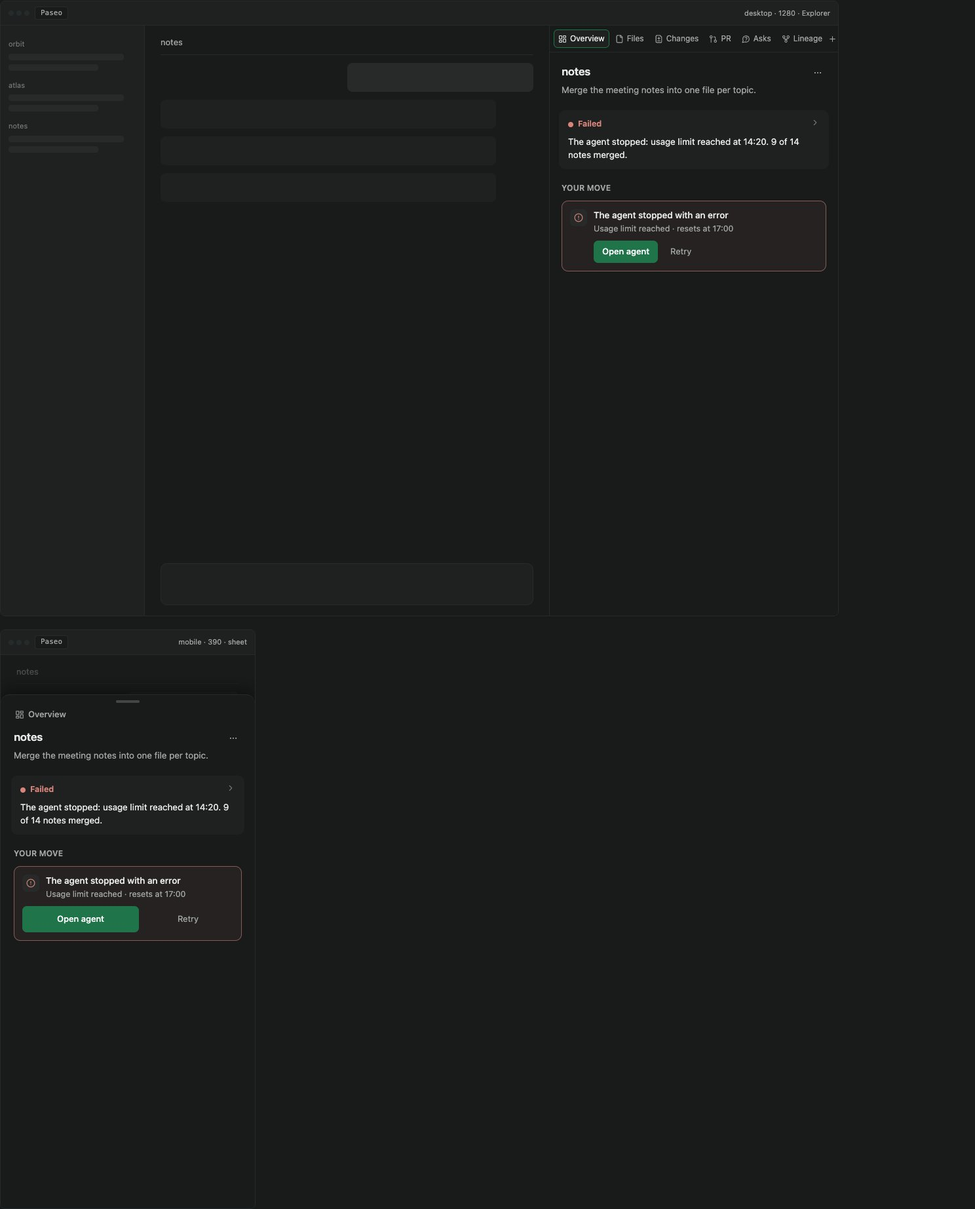
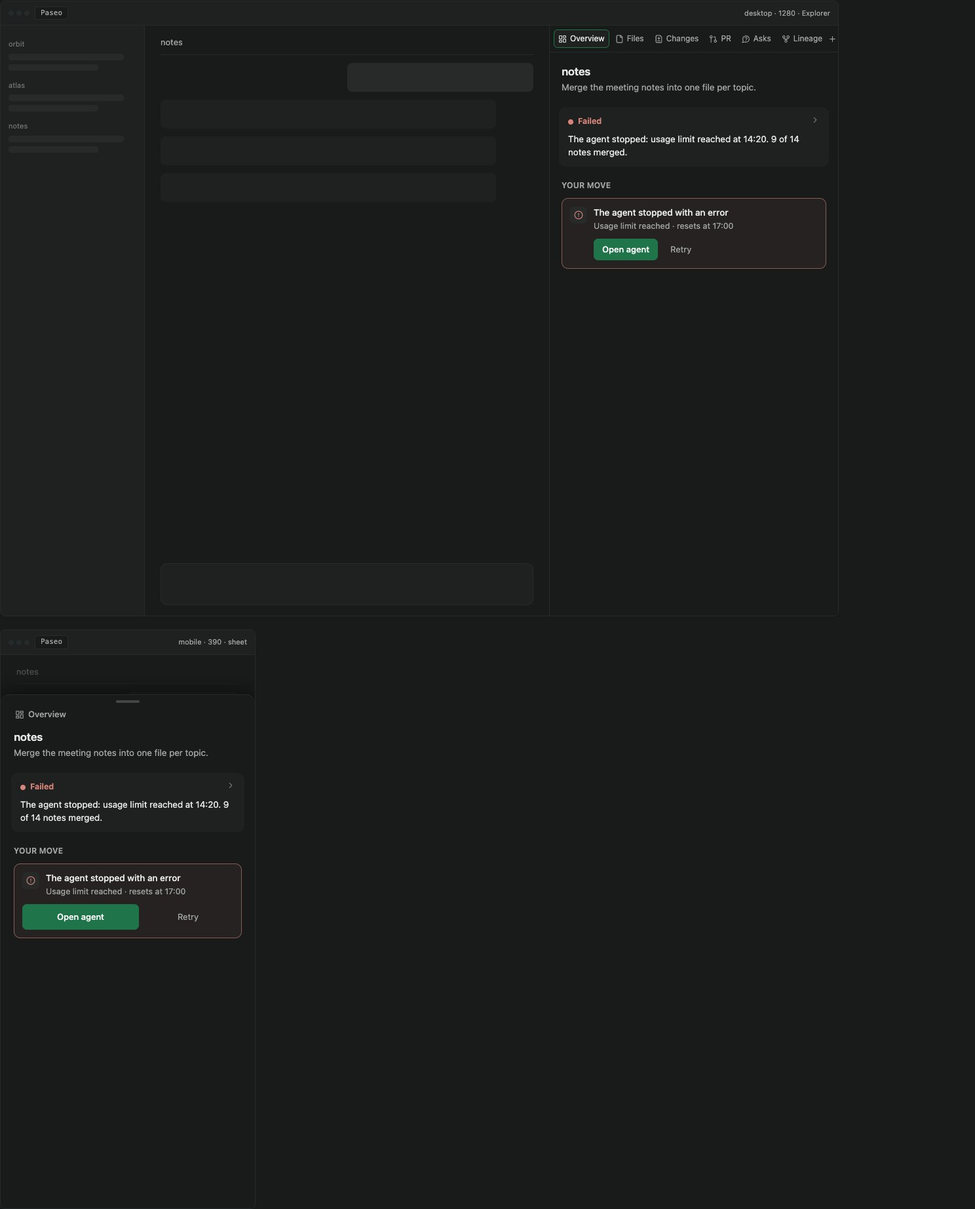
docs(spec): Overview v3 — drop the ⋯ menu, design approved

Changed region(s): [[0.5874, 0.0618, 0.8038, 0.2164], [0.0309, 0.6182, 0.2164, 0.7728]]

diff --git a/.ai/prototypes/overview-v3/index.html b/.ai/prototypes/overview-v3/index.html
@@ -13,7 +13,7 @@
 <svg width="0" height="0" style="position:absolute" aria-hidden="true"><defs><symbol id="ic-chevron-right" viewBox="0 0 24 24" fill="none" stroke="currentColor" stroke-width="2" stroke-linecap="round" stroke-linejoin="round"><path d="m9 18 6-6-6-6"/></symbol><symbol id="ic-more" viewBox="0 0 24 24" fill="currentColor" stroke="none"><circle cx="5" cy="12" r="1.75"/><circle cx="12" cy="12" r="1.75"/><circle cx="19" cy="12" r="1.75"/></symbol><symbol id="ic-sun" viewBox="0 0 24 24" fill="none" stroke="currentColor" stroke-width="2" stroke-linecap="round" stroke-linejoin="round"><circle cx="12" cy="12" r="4"/><path d="M12 2v2"/><path d="M12 20v2"/><path d="m4.93 4.93 1.41 1.41"/><path d="m17.66 17.66 1.41 1.41"/><path d="M2 12h2"/><path d="M20 12h2"/><path d="m6.34 17.66-1.41 1.41"/><path d="m19.07 4.93-1.41 1.41"/></symbol><symbol id="ic-dash" viewBox="0 0 24 24" fill="none" stroke="currentColor" stroke-width="2" stroke-linecap="round" stroke-linejoin="round"><rect width="7" height="9" x="3" y="3" rx="1"/><rect width="7" height="5" x="14" y="3" rx="1"/><rect width="7" height="9" x="14" y="12" rx="1"/><rect width="7" height="5" x="3" y="16" rx="1"/></symbol><symbol id="ic-files" viewBox="0 0 24 24" fill="none" stroke="currentColor" stroke-width="2" stroke-linecap="round" stroke-linejoin="round"><path d="M15 2H6a2 2 0 0 0-2 2v16a2 2 0 0 0 2 2h12a2 2 0 0 0 2-2V7Z"/><path d="M14 2v4a2 2 0 0 0 2 2h4"/></symbol><symbol id="ic-diff" viewBox="0 0 24 24" fill="none" stroke="currentColor" stroke-width="2" stroke-linecap="round" stroke-linejoin="round"><path d="M15 2H6a2 2 0 0 0-2 2v16a2 2 0 0 0 2 2h12a2 2 0 0 0 2-2V7Z"/><path d="M9 10h6"/><path d="M12 13V7"/><path d="M9 17h6"/></symbol><symbol id="ic-branch" viewBox="0 0 24 24" fill="none" stroke="currentColor" stroke-width="2" stroke-linecap="round" stroke-linejoin="round"><line x1="6" x2="6" y1="3" y2="15"/><circle cx="18" cy="6" r="3"/><circle cx="6" cy="18" r="3"/><path d="M18 9a9 9 0 0 1-9 9"/></symbol><symbol id="ic-pr" viewBox="0 0 24 24" fill="none" stroke="currentColor" stroke-width="2" stroke-linecap="round" stroke-linejoin="round"><circle cx="18" cy="18" r="3"/><circle cx="6" cy="6" r="3"/><path d="M13 6h3a2 2 0 0 1 2 2v7"/><line x1="6" x2="6" y1="9" y2="21"/></symbol><symbol id="ic-merge" viewBox="0 0 24 24" fill="none" stroke="currentColor" stroke-width="2" stroke-linecap="round" stroke-linejoin="round"><circle cx="18" cy="18" r="3"/><circle cx="6" cy="6" r="3"/><path d="M6 21V9a9 9 0 0 0 9 9"/></symbol><symbol id="ic-ask" viewBox="0 0 24 24" fill="none" stroke="currentColor" stroke-width="2" stroke-linecap="round" stroke-linejoin="round"><path d="M7.9 20A9 9 0 1 0 4 16.1L2 22Z"/><path d="M9.09 9a3 3 0 0 1 5.83 1c0 2-3 3-3 3"/><path d="M12 17h.01"/></symbol><symbol id="ic-fork" viewBox="0 0 24 24" fill="none" stroke="currentColor" stroke-width="2" stroke-linecap="round" stroke-linejoin="round"><circle cx="12" cy="18" r="3"/><circle cx="6" cy="6" r="3"/><circle cx="18" cy="6" r="3"/><path d="M18 9v2c0 .6-.4 1-1 1H7c-.6 0-1-.4-1-1V9"/><path d="M12 12v3"/></symbol><symbol id="ic-up" viewBox="0 0 24 24" fill="none" stroke="currentColor" stroke-width="2" stroke-linecap="round" stroke-linejoin="round"><path d="M14 9 9 4 4 9"/><path d="M20 20h-7a4 4 0 0 1-4-4V4"/></symbol><symbol id="ic-down" viewBox="0 0 24 24" fill="none" stroke="currentColor" stroke-width="2" stroke-linecap="round" stroke-linejoin="round"><path d="m15 10 5 5-5 5"/><path d="M4 4v7a4 4 0 0 0 4 4h12"/></symbol><symbol id="ic-shield" viewBox="0 0 24 24" fill="none" stroke="currentColor" stroke-width="2" stroke-linecap="round" stroke-linejoin="round"><path d="M20 13c0 5-3.5 7.5-7.66 8.95a1 1 0 0 1-.67-.01C7.5 20.5 4 18 4 13V6a1 1 0 0 1 1-1c2 0 4.5-1.2 6.24-2.72a1.17 1.17 0 0 1 1.52 0C14.51 3.81 17 5 19 5a1 1 0 0 1 1 1z"/></symbol><symbol id="ic-alert" viewBox="0 0 24 24" fill="none" stroke="currentColor" stroke-width="2" stroke-linecap="round" stroke-linejoin="round"><circle cx="12" cy="12" r="10"/><line x1="12" x2="12" y1="8" y2="12"/><line x1="12" x2="12.01" y1="16" y2="16"/></symbol><symbol id="ic-archive" viewBox="0 0 24 24" fill="none" stroke="currentColor" stroke-width="2" stroke-linecap="round" stroke-linejoin="round"><rect width="20" height="5" x="2" y="3" rx="1"/><path d="M4 8v11a2 2 0 0 0 2 2h12a2 2 0 0 0 2-2V8"/><path d="M10 12h4"/></symbol><symbol id="ic-agent" viewBox="0 0 24 24" fill="none" stroke="currentColor" stroke-width="2" stroke-linecap="round" stroke-linejoin="round"><path d="M12 4v16"/><path d="M18.9 8 5.1 16"/><path d="m5.1 8 13.8 8"/></symbol><symbol id="ic-code" viewBox="0 0 24 24" fill="none" stroke="currentColor" stroke-width="2" stroke-linecap="round" stroke-linejoin="round"><polyline points="16 18 22 12 16 6"/><polyline points="8 6 2 12 8 18"/></symbol><symbol id="ic-copy" viewBox="0 0 24 24" fill="none" stroke="currentColor" stroke-width="2" stroke-linecap="round" stroke-linejoin="round"><rect width="14" height="14" x="8" y="8" rx="2"/><path d="M4 16c-1.1 0-2-.9-2-2V4c0-1.1.9-2 2-2h10c1.1 0 2 .9 2 2"/></symbol><symbol id="ic-commit" viewBox="0 0 24 24" fill="none" stroke="currentColor" stroke-width="2" stroke-linecap="round" stroke-linejoin="round"><circle cx="12" cy="12" r="3"/><line x1="3" x2="9" y1="12" y2="12"/><line x1="15" x2="21" y1="12" y2="12"/></symbol><symbol id="ic-plus" viewBox="0 0 24 24" fill="none" stroke="currentColor" stroke-width="2" stroke-linecap="round" stroke-linejoin="round"><path d="M5 12h14"/><path d="M12 5v14"/></symbol><symbol id="ic-panel" viewBox="0 0 24 24" fill="none" stroke="currentColor" stroke-width="2" stroke-linecap="round" stroke-linejoin="round"><rect width="18" height="18" x="3" y="3" rx="2"/><path d="M15 3v18"/></symbol><symbol id="ic-folder" viewBox="0 0 24 24" fill="none" stroke="currentColor" stroke-width="2" stroke-linecap="round" stroke-linejoin="round"><path d="M20 20a2 2 0 0 0 2-2V8a2 2 0 0 0-2-2h-7.9a2 2 0 0 1-1.69-.9L9.6 3.9A2 2 0 0 0 7.93 3H4a2 2 0 0 0-2 2v13a2 2 0 0 0 2 2Z"/></symbol><symbol id="ic-check" viewBox="0 0 24 24" fill="none" stroke="currentColor" stroke-width="2" stroke-linecap="round" stroke-linejoin="round"><path d="M20 6 9 17l-5-5"/></symbol><symbol id="ic-x" viewBox="0 0 24 24" fill="none" stroke="currentColor" stroke-width="2" stroke-linecap="round" stroke-linejoin="round"><path d="M18 6 6 18"/><path d="m6 6 12 12"/></symbol><symbol id="ic-sparkle" viewBox="0 0 24 24" fill="none" stroke="currentColor" stroke-width="2" stroke-linecap="round" stroke-linejoin="round"><path d="M12 3v3"/><path d="M12 18v3"/><path d="M3 12h3"/><path d="M18 12h3"/><path d="m5.6 5.6 2.1 2.1"/><path d="m16.3 16.3 2.1 2.1"/><path d="m5.6 18.4 2.1-2.1"/><path d="m16.3 7.7 2.1-2.1"/></symbol><symbol id="ic-gauge" viewBox="0 0 24 24" fill="none" stroke="currentColor" stroke-width="2" stroke-linecap="round" stroke-linejoin="round"><path d="m12 14 4-4"/><path d="M3.34 19a10 10 0 1 1 17.32 0"/></symbol></defs></svg>
 <div class="doc-toolbar">
   <strong style="font-size:0.875rem">Overview v3 — storyboard</strong>
-  <nav class="screen-nav" aria-label="Screens"><a href="#s1">1 Merged</a><a href="#s2">2 Asks</a><a href="#s3">3 Working</a><a href="#s4">4 Blocked</a><a href="#s5">5 Ready</a><a href="#s6">6 Outdated</a><a href="#s7">7 No status</a><a href="#s8">8 Parent</a><a href="#s9">9 Two agents</a><a href="#s10">10 Failed · folder</a><a href="#s11">11 ⋯ menu</a></nav>
+  <nav class="screen-nav" aria-label="Screens"><a href="#s1">1 Merged</a><a href="#s2">2 Asks</a><a href="#s3">3 Working</a><a href="#s4">4 Blocked</a><a href="#s5">5 Ready</a><a href="#s6">6 Outdated</a><a href="#s7">7 No status</a><a href="#s8">8 Parent</a><a href="#s9">9 Two agents</a><a href="#s10">10 Failed · folder</a></nav>
   <button class="btn btn-outline btn-sm" id="theme-toggle" type="button"><svg aria-hidden="true"><use href="#ic-sun"/></svg> Theme</button>
 </div>
 <div class="doc">
@@ -38,9 +38,7 @@
     <aside class="px-explorer"><div class="px-tabs"><div class="px-tab is-on"><svg aria-hidden="true"><use href="#ic-dash"/></svg><span>Overview</span></div><div class="px-tab "><svg aria-hidden="true"><use href="#ic-files"/></svg><span>Files</span></div><div class="px-tab "><svg aria-hidden="true"><use href="#ic-diff"/></svg><span>Changes</span></div><div class="px-tab "><svg aria-hidden="true"><use href="#ic-pr"/></svg><span>PR</span></div><div class="px-tab "><svg aria-hidden="true"><use href="#ic-ask"/></svg><span>Asks</span></div><div class="px-tab "><svg aria-hidden="true"><use href="#ic-fork"/></svg><span>Lineage</span></div>
     <span class="px-tabs-end"><svg aria-hidden="true"><use href="#ic-plus"/></svg><svg aria-hidden="true"><use href="#ic-panel"/></svg></span></div><div class="px-scroll"><div class="ov"><header class="ov-id">
     <h1 class="ov-title">Fix blank page on anchor navigation</h1>
-    <span class="ov-kebab " aria-label="Workspace actions"><svg aria-hidden="true"><use href="#ic-more"/></svg></span>
     <p class="ov-goal ">Fix the blank HTML preview when you click an in-page anchor link.</p>
-    
   </header><section class="ov-story " role="button" aria-label="Open status">
     <div class="ov-state t-ok"><i class="ov-dot "></i>Done<span class="ov-chev"><svg aria-hidden="true"><use href="#ic-chevron-right"/></svg></span></div>
     
@@ -65,9 +63,7 @@
     <div class="px-composer"></div></div></div>
       <div class="px-sheet"><div class="px-handle"></div><div class="px-sheet-title"><svg aria-hidden="true"><use href="#ic-dash"/></svg> Overview</div><div class="ov"><header class="ov-id">
     <h1 class="ov-title">Fix blank page on anchor navigation</h1>
-    <span class="ov-kebab " aria-label="Workspace actions"><svg aria-hidden="true"><use href="#ic-more"/></svg></span>
     <p class="ov-goal ">Fix the blank HTML preview when you click an in-page anchor link.</p>
-    
   </header><section class="ov-story " role="button" aria-label="Open status">
     <div class="ov-state t-ok"><i class="ov-dot "></i>Done<span class="ov-chev"><svg aria-hidden="true"><use href="#ic-chevron-right"/></svg></span></div>
     
@@ -85,7 +81,7 @@
     
   </section></div></div></div>
   </div></div>
-  <div class="notes"><div class="note"><b>1</b><span>Four lines tell the whole story: title, goal, <b>Done</b> with its one-sentence summary, then the one button. No branch, PR row, agent row, context size or "updated" time: each repeated something above it or answered nothing.</span></div><div class="note"><b>2</b><span>The state word replaces the badge pill: a coloured dot and word read faster and cost no chrome.</span></div><div class="note"><b>3</b><span>The status block opens the Status tab (done list, next steps) — details live there, not here.</span></div></div>
+  <div class="notes"><div class="note"><b>1</b><span>No ⋯ menu on Overview: archive, editor and branch actions already live in the workspace header and the sidebar. Four lines tell the whole story: title, goal, <b>Done</b> with its one-sentence summary, then the one button. No branch, PR row, agent row, context size or "updated" time: each repeated something above it or answered nothing.</span></div><div class="note"><b>2</b><span>The state word replaces the badge pill: a coloured dot and word read faster and cost no chrome.</span></div><div class="note"><b>3</b><span>The status block opens the Status tab (done list, next steps) — details live there, not here.</span></div></div>
 </section>
 
 <section class="screen" id="s2">
@@ -104,9 +100,7 @@
     <aside class="px-explorer"><div class="px-tabs"><div class="px-tab is-on"><svg aria-hidden="true"><use href="#ic-dash"/></svg><span>Overview</span></div><div class="px-tab "><svg aria-hidden="true"><use href="#ic-files"/></svg><span>Files</span></div><div class="px-tab "><svg aria-hidden="true"><use href="#ic-diff"/></svg><span>Changes</span></div><div class="px-tab "><svg aria-hidden="true"><use href="#ic-pr"/></svg><span>PR</span></div><div class="px-tab "><svg aria-hidden="true"><use href="#ic-ask"/></svg><span>Asks</span></div><div class="px-tab "><svg aria-hidden="true"><use href="#ic-fork"/></svg><span>Lineage</span></div>
     <span class="px-tabs-end"><svg aria-hidden="true"><use href="#ic-plus"/></svg><svg aria-hidden="true"><use href="#ic-panel"/></svg></span></div><div class="px-scroll"><div class="ov"><header class="ov-id">
     <h1 class="ov-title">Payments: retry failed webhooks</h1>
-    <span class="ov-kebab " aria-label="Workspace actions"><svg aria-hidden="true"><use href="#ic-more"/></svg></span>
     <p class="ov-goal ">Retry failed payment webhooks with backoff instead of dropping them.</p>
-    
   </header><section class="ov-story " role="button" aria-label="Open status">
     <div class="ov-state t-warn"><i class="ov-dot "></i>Waiting on you<span class="ov-chev"><svg aria-hidden="true"><use href="#ic-chevron-right"/></svg></span></div>
     
@@ -134,9 +128,7 @@
     <div class="px-composer"></div></div></div>
       <div class="px-sheet"><div class="px-handle"></div><div class="px-sheet-title"><svg aria-hidden="true"><use href="#ic-dash"/></svg> Overview</div><div class="ov"><header class="ov-id">
     <h1 class="ov-title">Payments: retry failed webhooks</h1>
-    <span class="ov-kebab " aria-label="Workspace actions"><svg aria-hidden="true"><use href="#ic-more"/></svg></span>
     <p class="ov-goal ">Retry failed payment webhooks with backoff instead of dropping them.</p>
-    
   </header><section class="ov-story " role="button" aria-label="Open status">
     <div class="ov-state t-warn"><i class="ov-dot "></i>Waiting on you<span class="ov-chev"><svg aria-hidden="true"><use href="#ic-chevron-right"/></svg></span></div>
     
@@ -176,9 +168,7 @@
     <aside class="px-explorer"><div class="px-tabs"><div class="px-tab is-on"><svg aria-hidden="true"><use href="#ic-dash"/></svg><span>Overview</span></div><div class="px-tab "><svg aria-hidden="true"><use href="#ic-files"/></svg><span>Files</span></div><div class="px-tab "><svg aria-hidden="true"><use href="#ic-diff"/></svg><span>Changes</span></div><div class="px-tab "><svg aria-hidden="true"><use href="#ic-pr"/></svg><span>PR</span></div><div class="px-tab "><svg aria-hidden="true"><use href="#ic-ask"/></svg><span>Asks</span></div><div class="px-tab "><svg aria-hidden="true"><use href="#ic-fork"/></svg><span>Lineage</span></div>
     <span class="px-tabs-end"><svg aria-hidden="true"><use href="#ic-plus"/></svg><svg aria-hidden="true"><use href="#ic-panel"/></svg></span></div><div class="px-scroll"><div class="ov"><header class="ov-id">
     <h1 class="ov-title">Search: trigram index for SKUs</h1>
-    <span class="ov-kebab " aria-label="Workspace actions"><svg aria-hidden="true"><use href="#ic-more"/></svg></span>
     <p class="ov-goal ">Make SKU search find partial matches in under 100 ms.</p>
-    
   </header><section class="ov-story " role="button" aria-label="Open status">
     <div class="ov-state t-run"><i class="ov-dot is-pulse"></i>Working<span class="ov-chev"><svg aria-hidden="true"><use href="#ic-chevron-right"/></svg></span></div>
     
@@ -196,9 +186,7 @@
     <div class="px-composer"></div></div></div>
       <div class="px-sheet"><div class="px-handle"></div><div class="px-sheet-title"><svg aria-hidden="true"><use href="#ic-dash"/></svg> Overview</div><div class="ov"><header class="ov-id">
     <h1 class="ov-title">Search: trigram index for SKUs</h1>
-    <span class="ov-kebab " aria-label="Workspace actions"><svg aria-hidden="true"><use href="#ic-more"/></svg></span>
     <p class="ov-goal ">Make SKU search find partial matches in under 100 ms.</p>
-    
   </header><section class="ov-story " role="button" aria-label="Open status">
     <div class="ov-state t-run"><i class="ov-dot is-pulse"></i>Working<span class="ov-chev"><svg aria-hidden="true"><use href="#ic-chevron-right"/></svg></span></div>
     
@@ -228,9 +216,7 @@
     <aside class="px-explorer"><div class="px-tabs"><div class="px-tab is-on"><svg aria-hidden="true"><use href="#ic-dash"/></svg><span>Overview</span></div><div class="px-tab "><svg aria-hidden="true"><use href="#ic-files"/></svg><span>Files</span></div><div class="px-tab "><svg aria-hidden="true"><use href="#ic-diff"/></svg><span>Changes</span></div><div class="px-tab "><svg aria-hidden="true"><use href="#ic-pr"/></svg><span>PR</span></div><div class="px-tab "><svg aria-hidden="true"><use href="#ic-ask"/></svg><span>Asks</span></div><div class="px-tab "><svg aria-hidden="true"><use href="#ic-fork"/></svg><span>Lineage</span></div>
     <span class="px-tabs-end"><svg aria-hidden="true"><use href="#ic-plus"/></svg><svg aria-hidden="true"><use href="#ic-panel"/></svg></span></div><div class="px-scroll"><div class="ov"><header class="ov-id">
     <h1 class="ov-title">Imports: CSV mapping wizard</h1>
-    <span class="ov-kebab " aria-label="Workspace actions"><svg aria-hidden="true"><use href="#ic-more"/></svg></span>
     <p class="ov-goal ">Let users map CSV columns to fields before an import runs.</p>
-    
   </header><section class="ov-story " role="button" aria-label="Open status">
     <div class="ov-state t-danger"><i class="ov-dot "></i>Blocked<span class="ov-chev"><svg aria-hidden="true"><use href="#ic-chevron-right"/></svg></span></div>
     
@@ -255,9 +241,7 @@
     <div class="px-composer"></div></div></div>
       <div class="px-sheet"><div class="px-handle"></div><div class="px-sheet-title"><svg aria-hidden="true"><use href="#ic-dash"/></svg> Overview</div><div class="ov"><header class="ov-id">
     <h1 class="ov-title">Imports: CSV mapping wizard</h1>
-    <span class="ov-kebab " aria-label="Workspace actions"><svg aria-hidden="true"><use href="#ic-more"/></svg></span>
     <p class="ov-goal ">Let users map CSV columns to fields before an import runs.</p>
-    
   </header><section class="ov-story " role="button" aria-label="Open status">
     <div class="ov-state t-danger"><i class="ov-dot "></i>Blocked<span class="ov-chev"><svg aria-hidden="true"><use href="#ic-chevron-right"/></svg></span></div>
     
@@ -294,9 +278,7 @@
     <aside class="px-explorer"><div class="px-tabs"><div class="px-tab is-on"><svg aria-hidden="true"><use href="#ic-dash"/></svg><span>Overview</span></div><div class="px-tab "><svg aria-hidden="true"><use href="#ic-files"/></svg><span>Files</span></div><div class="px-tab "><svg aria-hidden="true"><use href="#ic-diff"/></svg><span>Changes</span></div><div class="px-tab "><svg aria-hidden="true"><use href="#ic-pr"/></svg><span>PR</span></div><div class="px-tab "><svg aria-hidden="true"><use href="#ic-ask"/></svg><span>Asks</span></div><div class="px-tab "><svg aria-hidden="true"><use href="#ic-fork"/></svg><span>Lineage</span></div>
     <span class="px-tabs-end"><svg aria-hidden="true"><use href="#ic-plus"/></svg><svg aria-hidden="true"><use href="#ic-panel"/></svg></span></div><div class="px-scroll"><div class="ov"><header class="ov-id">
     <h1 class="ov-title">Billing 3: series picker</h1>
-    <span class="ov-kebab " aria-label="Workspace actions"><svg aria-hidden="true"><use href="#ic-more"/></svg></span>
     <p class="ov-goal ">Let accountants pick the invoice number series when issuing an invoice.</p>
-    
   </header><section class="ov-story " role="button" aria-label="Open status">
     <div class="ov-state t-ok"><i class="ov-dot "></i>Done<span class="ov-chev"><svg aria-hidden="true"><use href="#ic-chevron-right"/></svg></span></div>
     
@@ -324,9 +306,7 @@
     <div class="px-composer"></div></div></div>
       <div class="px-sheet"><div class="px-handle"></div><div class="px-sheet-title"><svg aria-hidden="true"><use href="#ic-dash"/></svg> Overview</div><div class="ov"><header class="ov-id">
     <h1 class="ov-title">Billing 3: series picker</h1>
-    <span class="ov-kebab " aria-label="Workspace actions"><svg aria-hidden="true"><use href="#ic-more"/></svg></span>
     <p class="ov-goal ">Let accountants pick the invoice number series when issuing an invoice.</p>
-    
   </header><section class="ov-story " role="button" aria-label="Open status">
     <div class="ov-state t-ok"><i class="ov-dot "></i>Done<span class="ov-chev"><svg aria-hidden="true"><use href="#ic-chevron-right"/></svg></span></div>
     
@@ -366,9 +346,7 @@
     <aside class="px-explorer"><div class="px-tabs"><div class="px-tab is-on"><svg aria-hidden="true"><use href="#ic-dash"/></svg><span>Overview</span></div><div class="px-tab "><svg aria-hidden="true"><use href="#ic-files"/></svg><span>Files</span></div><div class="px-tab "><svg aria-hidden="true"><use href="#ic-diff"/></svg><span>Changes</span></div><div class="px-tab "><svg aria-hidden="true"><use href="#ic-pr"/></svg><span>PR</span></div><div class="px-tab "><svg aria-hidden="true"><use href="#ic-ask"/></svg><span>Asks</span></div><div class="px-tab "><svg aria-hidden="true"><use href="#ic-fork"/></svg><span>Lineage</span></div>
     <span class="px-tabs-end"><svg aria-hidden="true"><use href="#ic-plus"/></svg><svg aria-hidden="true"><use href="#ic-panel"/></svg></span></div><div class="px-scroll"><div class="ov"><header class="ov-id">
     <h1 class="ov-title">Docs: release notes for 3.2</h1>
-    <span class="ov-kebab " aria-label="Workspace actions"><svg aria-hidden="true"><use href="#ic-more"/></svg></span>
     <p class="ov-goal ">Write the 3.2 release notes from the merged PRs.</p>
-    
   </header><section class="ov-story is-stale" role="button" aria-label="Open status">
     <div class="ov-state t-warn"><i class="ov-dot "></i>Waiting on you<span class="ov-chev"><svg aria-hidden="true"><use href="#ic-chevron-right"/></svg></span></div>
     <div class="ov-stale">You replied 2 h ago; the agent hasn't updated this since.</div>
@@ -386,9 +364,7 @@
     <div class="px-composer"></div></div></div>
       <div class="px-sheet"><div class="px-handle"></div><div class="px-sheet-title"><svg aria-hidden="true"><use href="#ic-dash"/></svg> Overview</div><div class="ov"><header class="ov-id">
     <h1 class="ov-title">Docs: release notes for 3.2</h1>
-    <span class="ov-kebab " aria-label="Workspace actions"><svg aria-hidden="true"><use href="#ic-more"/></svg></span>
     <p class="ov-goal ">Write the 3.2 release notes from the merged PRs.</p>
-    
   </header><section class="ov-story is-stale" role="button" aria-label="Open status">
     <div class="ov-state t-warn"><i class="ov-dot "></i>Waiting on you<span class="ov-chev"><svg aria-hidden="true"><use href="#ic-chevron-right"/></svg></span></div>
     <div class="ov-stale">You replied 2 h ago; the agent hasn't updated this since.</div>
@@ -418,9 +394,7 @@
     <aside class="px-explorer"><div class="px-tabs"><div class="px-tab is-on"><svg aria-hidden="true"><use href="#ic-dash"/></svg><span>Overview</span></div><div class="px-tab "><svg aria-hidden="true"><use href="#ic-files"/></svg><span>Files</span></div><div class="px-tab "><svg aria-hidden="true"><use href="#ic-diff"/></svg><span>Changes</span></div><div class="px-tab "><svg aria-hidden="true"><use href="#ic-pr"/></svg><span>PR</span></div><div class="px-tab "><svg aria-hidden="true"><use href="#ic-ask"/></svg><span>Asks</span></div><div class="px-tab "><svg aria-hidden="true"><use href="#ic-fork"/></svg><span>Lineage</span></div>
     <span class="px-tabs-end"><svg aria-hidden="true"><use href="#ic-plus"/></svg><svg aria-hidden="true"><use href="#ic-panel"/></svg></span></div><div class="px-scroll"><div class="ov"><header class="ov-id">
     <h1 class="ov-title">Fix flaky login e2e</h1>
-    <span class="ov-kebab " aria-label="Workspace actions"><svg aria-hidden="true"><use href="#ic-more"/></svg></span>
     <p class="ov-goal is-fallback">orbit</p>
-    
   </header><p class="ov-quiet">The agent finished 3 min ago without a status report.</p><section class="ov-move">
     <div class="ov-move-label">Your move</div>
     <div class="ov-item is-lead" style="--lead: var(--app-accent)">
@@ -440,9 +414,7 @@
     <div class="px-composer"></div></div></div>
       <div class="px-sheet"><div class="px-handle"></div><div class="px-sheet-title"><svg aria-hidden="true"><use href="#ic-dash"/></svg> Overview</div><div class="ov"><header class="ov-id">
     <h1 class="ov-title">Fix flaky login e2e</h1>
-    <span class="ov-kebab " aria-label="Workspace actions"><svg aria-hidden="true"><use href="#ic-more"/></svg></span>
     <p class="ov-goal is-fallback">orbit</p>
-    
   </header><p class="ov-quiet">The agent finished 3 min ago without a status report.</p><section class="ov-move">
     <div class="ov-move-label">Your move</div>
     <div class="ov-item is-lead" style="--lead: var(--app-accent)">
@@ -474,9 +446,7 @@
     <aside class="px-explorer"><div class="px-tabs"><div class="px-tab is-on"><svg aria-hidden="true"><use href="#ic-dash"/></svg><span>Overview</span></div><div class="px-tab "><svg aria-hidden="true"><use href="#ic-files"/></svg><span>Files</span></div><div class="px-tab "><svg aria-hidden="true"><use href="#ic-diff"/></svg><span>Changes</span></div><div class="px-tab "><svg aria-hidden="true"><use href="#ic-pr"/></svg><span>PR</span></div><div class="px-tab "><svg aria-hidden="true"><use href="#ic-ask"/></svg><span>Asks</span></div><div class="px-tab "><svg aria-hidden="true"><use href="#ic-fork"/></svg><span>Lineage</span></div>
     <span class="px-tabs-end"><svg aria-hidden="true"><use href="#ic-plus"/></svg><svg aria-hidden="true"><use href="#ic-panel"/></svg></span></div><div class="px-scroll"><div class="ov"><header class="ov-id">
     <h1 class="ov-title">Billing spec: invoices own numbering</h1>
-    <span class="ov-kebab " aria-label="Workspace actions"><svg aria-hidden="true"><use href="#ic-more"/></svg></span>
     <p class="ov-goal ">Decide how invoice numbers work and split the build into workspaces.</p>
-    
   </header><section class="ov-story " role="button" aria-label="Open status">
     <div class="ov-state t-ok"><i class="ov-dot "></i>Done<span class="ov-chev"><svg aria-hidden="true"><use href="#ic-chevron-right"/></svg></span></div>
     
@@ -504,9 +474,7 @@
     <div class="px-composer"></div></div></div>
       <div class="px-sheet"><div class="px-handle"></div><div class="px-sheet-title"><svg aria-hidden="true"><use href="#ic-dash"/></svg> Overview</div><div class="ov"><header class="ov-id">
     <h1 class="ov-title">Billing spec: invoices own numbering</h1>
-    <span class="ov-kebab " aria-label="Workspace actions"><svg aria-hidden="true"><use href="#ic-more"/></svg></span>
     <p class="ov-goal ">Decide how invoice numbers work and split the build into workspaces.</p>
-    
   </header><section class="ov-story " role="button" aria-label="Open status">
     <div class="ov-state t-ok"><i class="ov-dot "></i>Done<span class="ov-chev"><svg aria-hidden="true"><use href="#ic-chevron-right"/></svg></span></div>
     
@@ -546,9 +514,7 @@
     <aside class="px-explorer"><div class="px-tabs"><div class="px-tab is-on"><svg aria-hidden="true"><use href="#ic-dash"/></svg><span>Overview</span></div><div class="px-tab "><svg aria-hidden="true"><use href="#ic-files"/></svg><span>Files</span></div><div class="px-tab "><svg aria-hidden="true"><use href="#ic-diff"/></svg><span>Changes</span></div><div class="px-tab "><svg aria-hidden="true"><use href="#ic-pr"/></svg><span>PR</span></div><div class="px-tab "><svg aria-hidden="true"><use href="#ic-ask"/></svg><span>Asks</span></div><div class="px-tab "><svg aria-hidden="true"><use href="#ic-fork"/></svg><span>Lineage</span></div>
     <span class="px-tabs-end"><svg aria-hidden="true"><use href="#ic-plus"/></svg><svg aria-hidden="true"><use href="#ic-panel"/></svg></span></div><div class="px-scroll"><div class="ov"><header class="ov-id">
     <h1 class="ov-title">Onboarding: invite flow</h1>
-    <span class="ov-kebab " aria-label="Workspace actions"><svg aria-hidden="true"><use href="#ic-more"/></svg></span>
     <p class="ov-goal ">Let admins invite teammates by email with a role picked up front.</p>
-    
   </header><section class="ov-story " role="button" aria-label="Open status">
     <div class="ov-state t-run"><i class="ov-dot is-pulse"></i>Working<span class="ov-chev"><svg aria-hidden="true"><use href="#ic-chevron-right"/></svg></span></div>
     
@@ -566,9 +532,7 @@
     <div class="px-composer"></div></div></div>
       <div class="px-sheet"><div class="px-handle"></div><div class="px-sheet-title"><svg aria-hidden="true"><use href="#ic-dash"/></svg> Overview</div><div class="ov"><header class="ov-id">
     <h1 class="ov-title">Onboarding: invite flow</h1>
-    <span class="ov-kebab " aria-label="Workspace actions"><svg aria-hidden="true"><use href="#ic-more"/></svg></span>
     <p class="ov-goal ">Let admins invite teammates by email with a role picked up front.</p>
-    
   </header><section class="ov-story " role="button" aria-label="Open status">
     <div class="ov-state t-run"><i class="ov-dot is-pulse"></i>Working<span class="ov-chev"><svg aria-hidden="true"><use href="#ic-chevron-right"/></svg></span></div>
     
@@ -598,9 +562,7 @@
     <aside class="px-explorer"><div class="px-tabs"><div class="px-tab is-on"><svg aria-hidden="true"><use href="#ic-dash"/></svg><span>Overview</span></div><div class="px-tab "><svg aria-hidden="true"><use href="#ic-files"/></svg><span>Files</span></div><div class="px-tab "><svg aria-hidden="true"><use href="#ic-diff"/></svg><span>Changes</span></div><div class="px-tab "><svg aria-hidden="true"><use href="#ic-pr"/></svg><span>PR</span></div><div class="px-tab "><svg aria-hidden="true"><use href="#ic-ask"/></svg><span>Asks</span></div><div class="px-tab "><svg aria-hidden="true"><use href="#ic-fork"/></svg><span>Lineage</span></div>
     <span class="px-tabs-end"><svg aria-hidden="true"><use href="#ic-plus"/></svg><svg aria-hidden="true"><use href="#ic-panel"/></svg></span></div><div class="px-scroll"><div class="ov"><header class="ov-id">
     <h1 class="ov-title">notes</h1>
-    <span class="ov-kebab " aria-label="Workspace actions"><svg aria-hidden="true"><use href="#ic-more"/></svg></span>
     <p class="ov-goal ">Merge the meeting notes into one file per topic.</p>
-    
   </header><section class="ov-story " role="button" aria-label="Open status">
     <div class="ov-state t-danger"><i class="ov-dot "></i>Failed<span class="ov-chev"><svg aria-hidden="true"><use href="#ic-chevron-right"/></svg></span></div>
     
@@ -625,9 +587,7 @@
     <div class="px-composer"></div></div></div>
       <div class="px-sheet"><div class="px-handle"></div><div class="px-sheet-title"><svg aria-hidden="true"><use href="#ic-dash"/></svg> Overview</div><div class="ov"><header class="ov-id">
     <h1 class="ov-title">notes</h1>
-    <span class="ov-kebab " aria-label="Workspace actions"><svg aria-hidden="true"><use href="#ic-more"/></svg></span>
     <p class="ov-goal ">Merge the meeting notes into one file per topic.</p>
-    
   </header><section class="ov-story " role="button" aria-label="Open status">
     <div class="ov-state t-danger"><i class="ov-dot "></i>Failed<span class="ov-chev"><svg aria-hidden="true"><use href="#ic-chevron-right"/></svg></span></div>
     
@@ -646,62 +606,6 @@
   </section></div></div></div>
   </div></div>
   <div class="notes"><div class="note"><b>1</b><span>No git means no code facts anywhere; nothing renders empty.</span></div><div class="note"><b>2</b><span>The failure is the move: open the agent to see the error, or retry.</span></div></div>
-</section>
-
-<section class="screen" id="s11">
-  <div class="screen-meta">
-    <h2>11. Workspace menu</h2>
-    <p>Jacek archives a workspace whose PR isn't merged, or opens it in his editor.</p>
-    <div class="screen-refs"><span class="ref">main-scenario</span></div>
-  </div>
-  <div class="sb-pair"><div class="frame sb-frame-desktop">
-    <div class="frame-bar"><div class="frame-dots"><i></i><i></i><i></i></div><span class="frame-url">Paseo</span><span class="sb-frame-label">desktop · 1280 · Explorer</span></div>
-    <div class="px-app">
-    <div class="px-nav"><div class="px-nav-p">orbit</div><div class="px-nav-w"></div><div class="px-nav-w w70"></div><div class="px-nav-p">atlas</div><div class="px-nav-w"></div><div class="px-nav-w w70"></div><div class="px-nav-p">notes</div><div class="px-nav-w"></div><div class="px-nav-w w70"></div></div>
-    <div class="px-chat"><div class="px-chat-head">Search: trigram index for SKUs</div>
-    <div class="px-bubble px-bubble-me"></div><div class="px-bubble w80"></div><div class="px-bubble w60"></div><div class="px-bubble w70"></div>
-    <div class="px-composer"></div></div>
-    <aside class="px-explorer"><div class="px-tabs"><div class="px-tab is-on"><svg aria-hidden="true"><use href="#ic-dash"/></svg><span>Overview</span></div><div class="px-tab "><svg aria-hidden="true"><use href="#ic-files"/></svg><span>Files</span></div><div class="px-tab "><svg aria-hidden="true"><use href="#ic-diff"/></svg><span>Changes</span></div><div class="px-tab "><svg aria-hidden="true"><use href="#ic-pr"/></svg><span>PR</span></div><div class="px-tab "><svg aria-hidden="true"><use href="#ic-ask"/></svg><span>Asks</span></div><div class="px-tab "><svg aria-hidden="true"><use href="#ic-fork"/></svg><span>Lineage</span></div>
-    <span class="px-tabs-end"><svg aria-hidden="true"><use href="#ic-plus"/></svg><svg aria-hidden="true"><use href="#ic-panel"/></svg></span></div><div class="px-scroll"><div class="ov"><header class="ov-id">
-    <h1 class="ov-title">Search: trigram index for SKUs</h1>
-    <span class="ov-kebab is-on" aria-label="Workspace actions"><svg aria-hidden="true"><use href="#ic-more"/></svg></span>
-    <p class="ov-goal ">Make SKU search find partial matches in under 100 ms.</p>
-    <div class="ov-menu" role="menu">
-      <div><svg aria-hidden="true"><use href="#ic-code"/></svg> Open in editor</div><div><svg aria-hidden="true"><use href="#ic-copy"/></svg> Copy branch name</div><div><svg aria-hidden="true"><use href="#ic-fork"/></svg> Lineage</div><hr />
-      <div><svg aria-hidden="true"><use href="#ic-archive"/></svg> Archive workspace…</div></div>
-  </header><section class="ov-story " role="button" aria-label="Open status">
-    <div class="ov-state t-run"><i class="ov-dot is-pulse"></i>Working<span class="ov-chev"><svg aria-hidden="true"><use href="#ic-chevron-right"/></svg></span></div>
-    
-    <p class="ov-summary">Index migration done. Rewriting the query planner to use it.</p>
-    <p class="ov-now"><b>Now</b>Running the integration tests (3 of 7 suites)</p>
-  </section><p class="ov-quiet"><svg aria-hidden="true"><use href="#ic-check"/></svg> Nothing needs you while the agent works.</p><footer class="ov-ctx">
-    <div class="ov-ctx-row"><span class="ov-k">PR</span><span class="ov-v">#902 feat(search): trigram index</span><span class="ov-w t-muted">draft · checks running</span><span class="ov-chev"><svg aria-hidden="true"><use href="#ic-chevron-right"/></svg></span></div>
-    
-  </footer></div></div></aside>
-  </div>
-  </div><div class="frame sb-frame-mobile">
-    <div class="frame-bar"><div class="frame-dots"><i></i><i></i><i></i></div><span class="frame-url">Paseo</span><span class="sb-frame-label">mobile · 390 · sheet</span></div>
-    <div class="px-mobile"><div class="px-mobile-behind"><div class="px-chat"><div class="px-chat-head">Search: trigram index for SKUs</div>
-    <div class="px-bubble px-bubble-me"></div><div class="px-bubble w80"></div><div class="px-bubble w60"></div><div class="px-bubble w70"></div>
-    <div class="px-composer"></div></div></div>
-      <div class="px-sheet"><div class="px-handle"></div><div class="px-sheet-title"><svg aria-hidden="true"><use href="#ic-dash"/></svg> Overview</div><div class="ov"><header class="ov-id">
-    <h1 class="ov-title">Search: trigram index for SKUs</h1>
-    <span class="ov-kebab is-on" aria-label="Workspace actions"><svg aria-hidden="true"><use href="#ic-more"/></svg></span>
-    <p class="ov-goal ">Make SKU search find partial matches in under 100 ms.</p>
-    <div class="ov-menu" role="menu">
-      <div><svg aria-hidden="true"><use href="#ic-code"/></svg> Open in editor</div><div><svg aria-hidden="true"><use href="#ic-copy"/></svg> Copy branch name</div><div><svg aria-hidden="true"><use href="#ic-fork"/></svg> Lineage</div><hr />
-      <div><svg aria-hidden="true"><use href="#ic-archive"/></svg> Archive workspace…</div></div>
-  </header><section class="ov-story " role="button" aria-label="Open status">
-    <div class="ov-state t-run"><i class="ov-dot is-pulse"></i>Working<span class="ov-chev"><svg aria-hidden="true"><use href="#ic-chevron-right"/></svg></span></div>
-    
-    <p class="ov-summary">Index migration done. Rewriting the query planner to use it.</p>
-    <p class="ov-now"><b>Now</b>Running the integration tests (3 of 7 suites)</p>
-  </section><p class="ov-quiet"><svg aria-hidden="true"><use href="#ic-check"/></svg> Nothing needs you while the agent works.</p><footer class="ov-ctx">
-    <div class="ov-ctx-row"><span class="ov-k">PR</span><span class="ov-v">#902 feat(search): trigram index</span><span class="ov-w t-muted">draft · checks running</span><span class="ov-chev"><svg aria-hidden="true"><use href="#ic-chevron-right"/></svg></span></div>
-    
-  </footer></div></div></div>
-  </div></div>
-  <div class="notes"><div class="note"><b>1</b><span>Rare lifecycle actions live behind ⋯ so the main area keeps one kind of button: the next step.</span></div></div>
 </section>
 </div>
 <script>

diff --git a/tasks/spec-overview-simplify.md b/tasks/spec-overview-simplify.md
@@ -1,6 +1,6 @@
 # Spec: Overview, simplified: title → goal → status → your move
 
-Status: in design · 2026-11-20 · reviewed: `fsh` @ 3e3340aae (`packages/app/src/panels/overview-panel.tsx`)
+Status: design approved · 2026-11-20 · reviewed: `fsh` @ 3e3340aae (`packages/app/src/panels/overview-panel.tsx`)
 
 Follows [spec-overview-v2.md](spec-overview-v2.md). Its section order stays. This spec removes what repeats and puts the
 four things the operator reads on entering a workspace at the top, with nothing between them.
@@ -117,7 +117,7 @@ live state (main-scenario); lineage rows by workspace (naming, from v2).
 
 Top to bottom. The first four lines answer S1–S3 with no labels and no repeats.
 
-1. **Title**: workspace name. ⋯ menu on the right (unchanged).
+1. **Title**: workspace name. No ⋯ menu: archive, editor and branch actions already live in the workspace header and the sidebar.
 2. **Goal** as the title's subtitle, regular weight, muted, up to 2 lines. No "Goal" label. (F5)
    Without a goal: the project name in its place (Q2, decided).
 3. **Status** without a section label: state badge, then the summary, up to 4 lines. Press opens the Status tab
@@ -152,7 +152,7 @@ Removed: the header's `project · branch` subtitle (F6, replaced by the goal), t
 
 - Status press → Status tab; ask entries answered in place; the one-button Your move.
 - Lineage block and its rows: answers "where did this come from" (v2 S1), not shown in this screenshot.
-- ⋯ menu: Lineage details, Archive.
+- Archive, open in editor, copy branch: in the workspace header and the sidebar, not on Overview. Lineage details: the Lineage tab.
 - PR checks and review state: on the PR row, or on the git move row when that row names the PR.
 - More: plugin facts that fit nowhere else.
 
